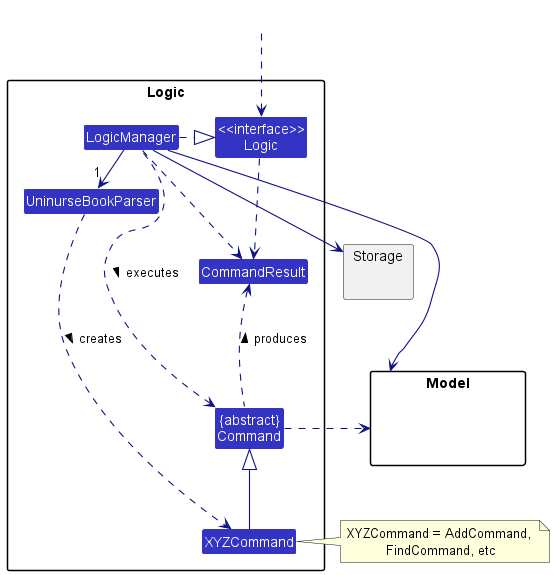
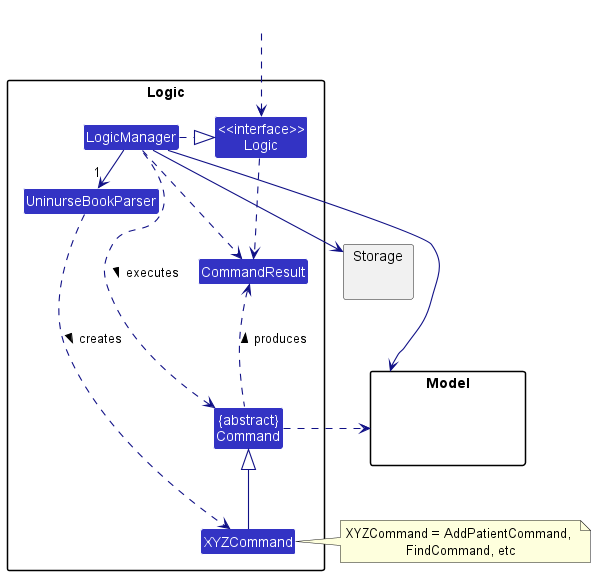
Update Logic component in DG

diff --git a/docs/DeveloperGuide.md b/docs/DeveloperGuide.md
@@ -102,7 +102,7 @@ Here's a (partial) class diagram of the `Logic` component:
 
 How the `Logic` component works:
 1. When `Logic` is called upon to execute a command, it uses the `UninurseBookParser` class to parse the user command.
-1. This results in a `Command` object (more precisely, an object of one of its subclasses e.g., `AddCommand`) which is executed by the `LogicManager`.
+1. This results in a `Command` object (more precisely, an object of one of its subclasses e.g., `AddPatientCommand`) which is executed by the `LogicManager`.
 1. The command can communicate with the `Model` when it is executed (e.g. to add a person).
 1. The result of the command execution is encapsulated as a `CommandResult` object which is returned back from `Logic`.
 
@@ -110,7 +110,7 @@ The Sequence Diagram below illustrates the interactions within the `Logic` compo
 
 ![Interactions Inside the Logic Component for the `delete 1` Command](images/DeleteSequenceDiagram.png)
 
-<div markdown="span" class="alert alert-info">:information_source: **Note:** The lifeline for `DeleteCommandParser` should end at the destroy marker (X) but due to a limitation of PlantUML, the lifeline reaches the end of diagram.
+<div markdown="span" class="alert alert-info">:information_source: **Note:** The lifelines for `DeleteGenericCommandParser` and `DeletePatientCommandParser`should end at the destroy marker (X) but due to a limitation of PlantUML, the lifelines reaches the end of diagram.
 </div>
 
 Here are the other classes in `Logic` (omitted from the class diagram above) that are used for parsing a user command:
@@ -118,8 +118,8 @@ Here are the other classes in `Logic` (omitted from the class diagram above) tha
 <img src="images/ParserClasses.png" width="600"/>
 
 How the parsing works:
-* When called upon to parse a user command, the `UninurseBookParser` class creates an `XYZCommandParser` (`XYZ` is a placeholder for the specific command name e.g., `AddCommandParser`) which uses the other classes shown above to parse the user command and create a `XYZCommand` object (e.g., `AddCommand`) which the `UninurseBookParser` returns back as a `Command` object.
-* All `XYZCommandParser` classes (e.g., `AddCommandParser`, `DeleteCommandParser`, ...) inherit from the `Parser` interface so that they can be treated similarly where possible e.g, during testing.
+* When called upon to parse a user command, the `UninurseBookParser` class creates an `XYZCommandParser` (`XYZ` is a placeholder for the specific command name e.g., `AddPatientCommandParser`) which uses the other classes shown above to parse the user command and create a `XYZCommand` object (e.g., `AddPatientCommand`) which the `UninurseBookParser` returns back as a `Command` object.
+* All `XYZCommandParser` classes (e.g., `AddPatientCommandParser`, `DeletePatientCommandParser`, ...) inherit from the `Parser` interface so that they can be treated similarly where possible e.g, during testing.
 
 ### Model component
 **API** : [`Model.java`](https://github.com/se-edu/addressbook-level3/tree/master/src/main/java/seedu/address/model/Model.java)
